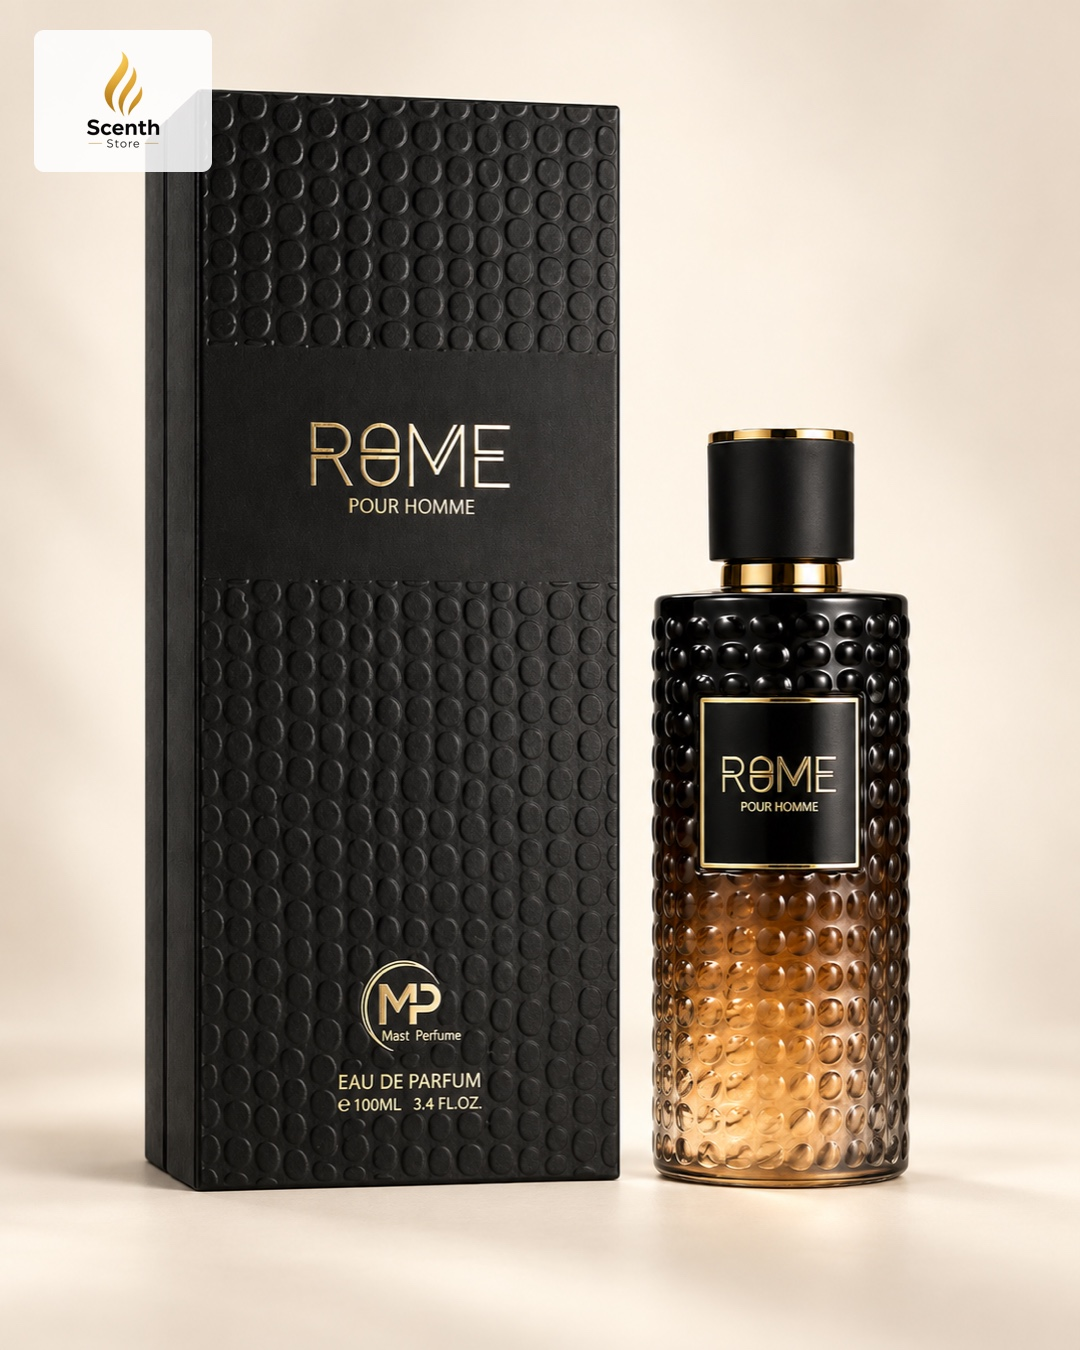
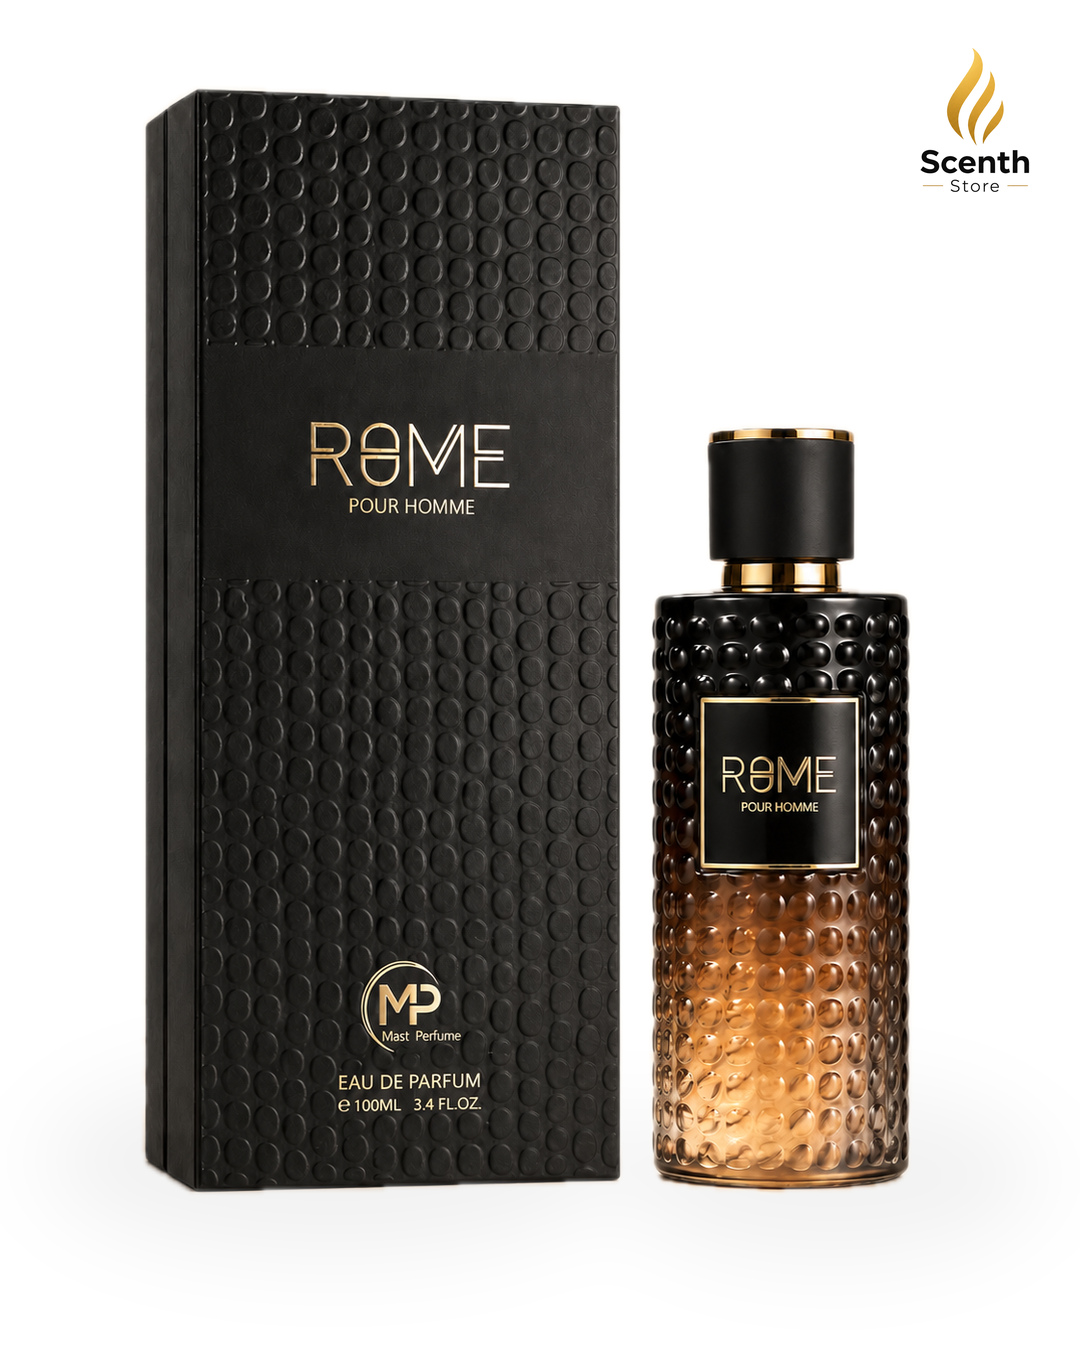
Use individual note artwork and white product renders

diff --git a/product-details.js b/product-details.js
@@ -169,7 +169,7 @@ const GENERATED_DETAIL_GALLERIES = {
     'lorenzo-pazzaglia-summer-hammer': false
 };
 
-const GENERATED_ASSET_VERSION = '20260930-2';
+const GENERATED_ASSET_VERSION = '20260930-3';
 
 Object.entries(GENERATED_DETAIL_GALLERIES).forEach(([slug, hasAlternative]) => {
     const current = window.CATALOG_DETAILS[slug] || {};
